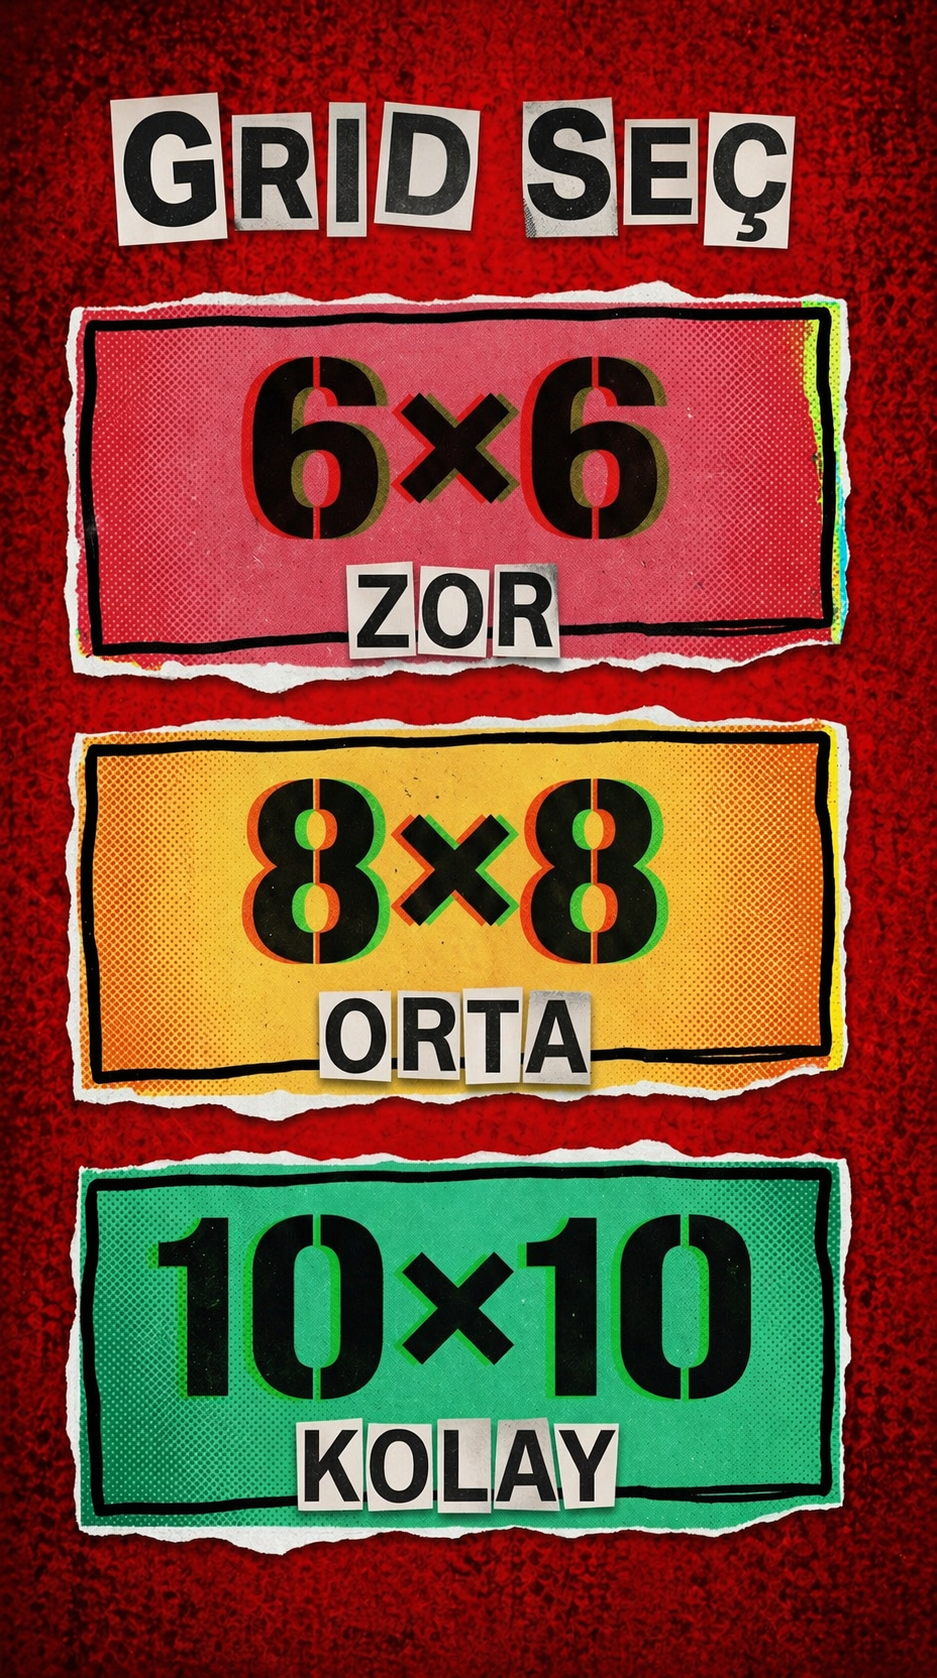
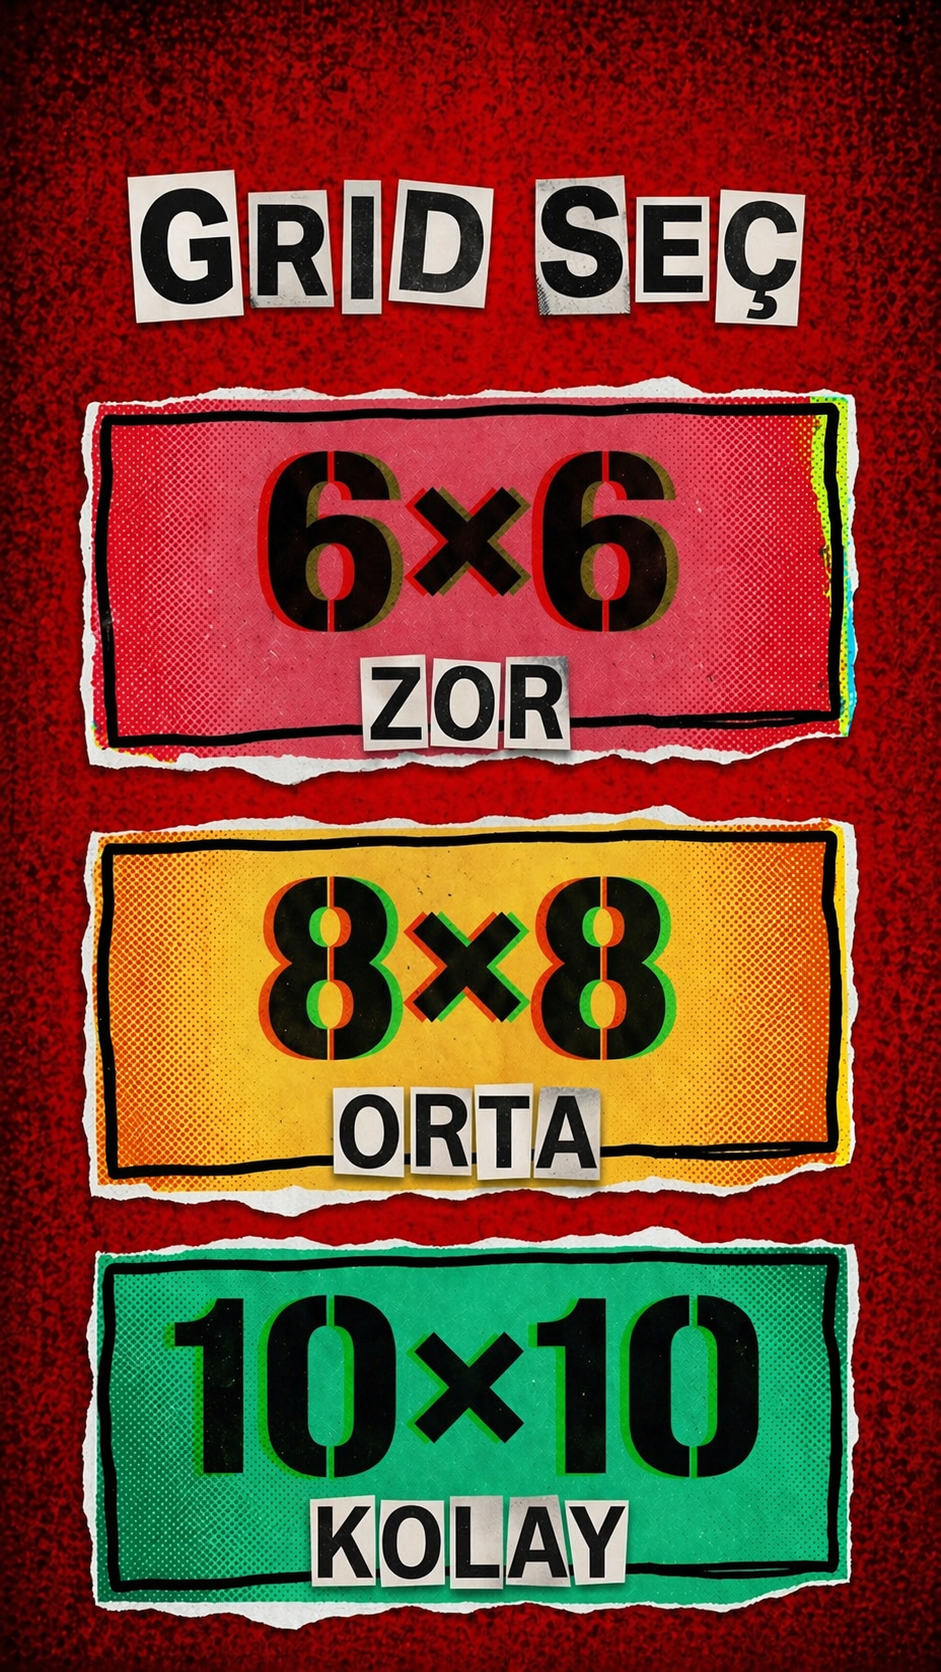
feat(ui): implement MarketScreen and polish navigation flow
- Implement MarketScreen with risograph asset background (market_bg.png)
- Display gold balance over PNG top bar blank area
- Render 6 joker purchase buttons with per-card height and alignment control
- Each button shows price, canAfford state (dim if insufficient gold), and owned quantity badge
- Purchase flow via MarketProvider: deducts gold, adds to JokerInventory, shows snackbar
- Update grid_size_bg.png and market_bg.png with revised assets
- Fix navigation: replace context.go() with context.push() for Home→Score,
  Home→Market, MoveCount→Game to preserve back navigation stack
- Splash→Login and Login→Home remain context.go() (no back wanted)

diff --git a/lib/ui/screens/market_screen.dart b/lib/ui/screens/market_screen.dart
@@ -1,18 +1,162 @@
 import 'package:flutter/material.dart';
+import 'package:flutter_riverpod/flutter_riverpod.dart';
 
-/// Market where players spend gold to buy jokers.
-///
-/// TODO (Phase 6): Read PlayerProfile.goldBalance and JokerInventory from providers.
-/// TODO (Phase 6): Implement purchase flow with gold sufficiency check.
-class MarketScreen extends StatelessWidget {
+import '../../core/constants/app_constants.dart';
+import '../../data/models/joker_inventory.dart';
+import '../../logic/providers/joker_provider.dart';
+import '../../logic/providers/market_provider.dart';
+import '../../logic/providers/player_provider.dart';
+
+class MarketScreen extends ConsumerWidget {
   const MarketScreen({super.key});
+
+  static const _jokers = [
+    (JokerType.fish, 'Balık', AppConstants.fishPrice),
+    (JokerType.wheel, 'Tekerlek', AppConstants.wheelPrice),
+    (JokerType.lollipop, 'Lolipop', AppConstants.lollipopPrice),
+    (JokerType.swap, 'Değiştir', AppConstants.swapPrice),
+    (JokerType.shuffle, 'Karıştır', AppConstants.shufflePrice),
+    (JokerType.party, 'Parti', AppConstants.partyPrice),
+  ];
+
+  void _purchase(BuildContext context, WidgetRef ref, String jokerType) {
+    final result = ref.read(marketProvider.notifier).purchaseJoker(jokerType);
+    final msg = result == PurchaseResult.success
+        ? 'Satın alındı!'
+        : 'Yetersiz altın!';
+    ScaffoldMessenger.of(context).showSnackBar(
+      SnackBar(content: Text(msg), duration: const Duration(seconds: 1)),
+    );
+  }
+
+  @override
+  Widget build(BuildContext context, WidgetRef ref) {
+    final size = MediaQuery.of(context).size;
+    final gold = ref.watch(playerProvider).goldBalance;
+    final jokerState = ref.watch(jokerProvider);
+
+    // Buton pozisyonları: (top%, left%, right%, height, alignmentY)
+    // alignmentY: -1.0=üst, 0.0=orta, 1.0=alt
+    const buttonLayout = [
+      (0.17, 0.08, 0.53, 236.0, 0.8), // Balık
+      (0.17, 0.52, 0.099, 236.0, 0.8), // Tekerlek
+      (0.45, 0.09, 0.53, 236.0, 0.83), // Lolipop
+      (0.45, 0.52, 0.099, 236.0, 0.83), // Değiştir
+      (0.73, 0.09, 0.53, 229.0, 0.8), // Karıştır
+      (0.73, 0.52, 0.099, 229.0, 0.8), // Parti
+    ];
+
+    return Scaffold(
+      body: SizedBox(
+        width: size.width,
+        height: size.height,
+        child: Stack(
+          children: [
+            Image.asset(
+              'assets/images/market_bg.png',
+              fit: BoxFit.fill,
+              width: size.width,
+              height: size.height,
+            ),
+
+            // Altın göstergesi
+            Positioned(
+              top: size.height * 0.090,
+              right: size.width * 0.13,
+              child: Text(
+                '$gold',
+                style: const TextStyle(
+                  fontSize: 18,
+                  fontWeight: FontWeight.w900,
+                  color: Colors.black87,
+                ),
+              ),
+            ),
+
+            // 6 joker satın al butonu
+            for (int i = 0; i < _jokers.length; i++)
+              Positioned(
+                top: size.height * buttonLayout[i].$1,
+                left: size.width * buttonLayout[i].$2,
+                right: size.width * buttonLayout[i].$3,
+                child: _JokerButton(
+                  jokerType: _jokers[i].$1,
+                  price: _jokers[i].$3,
+                  quantity: jokerState.getQuantity(_jokers[i].$1),
+                  canAfford: gold >= _jokers[i].$3,
+                  height: buttonLayout[i].$4,
+                  alignmentY: buttonLayout[i].$5,
+                  onTap: () => _purchase(context, ref, _jokers[i].$1),
+                ),
+              ),
+          ],
+        ),
+      ),
+    );
+  }
+}
+
+class _JokerButton extends StatelessWidget {
+  final String jokerType;
+  final int price;
+  final int quantity;
+  final bool canAfford;
+  final double height;
+  final double alignmentY;
+  final VoidCallback onTap;
+
+  const _JokerButton({
+    required this.jokerType,
+    required this.price,
+    required this.quantity,
+    required this.canAfford,
+    required this.height,
+    required this.alignmentY,
+    required this.onTap,
+  });
 
   @override
   Widget build(BuildContext context) {
-    return Scaffold(
-      appBar: AppBar(title: const Text('Market')),
-      body: const Center(
-        child: Text('Market yakında hazır olacak.'),
+    return GestureDetector(
+      onTap: canAfford ? onTap : null,
+      child: Container(
+        height: height,
+        alignment: Alignment(0, alignmentY),
+        decoration: BoxDecoration(
+          color: Colors.transparent,
+          borderRadius: BorderRadius.circular(6),
+        ),
+        child: Row(
+          mainAxisAlignment: MainAxisAlignment.center,
+          children: [
+            Text(
+              '$price',
+              style: TextStyle(
+                fontSize: 15,
+                fontWeight: FontWeight.w800,
+                color: canAfford ? Colors.black87 : Colors.black38,
+              ),
+            ),
+            if (quantity > 0) ...[
+              const SizedBox(width: 6),
+              Container(
+                padding: const EdgeInsets.symmetric(horizontal: 5, vertical: 2),
+                decoration: BoxDecoration(
+                  color: Colors.black87,
+                  borderRadius: BorderRadius.circular(10),
+                ),
+                child: Text(
+                  'x$quantity',
+                  style: const TextStyle(
+                    fontSize: 11,
+                    color: Colors.white,
+                    fontWeight: FontWeight.w700,
+                  ),
+                ),
+              ),
+            ],
+          ],
+        ),
       ),
     );
   }

diff --git a/lib/ui/screens/home_screen.dart b/lib/ui/screens/home_screen.dart
@@ -89,7 +89,7 @@ class HomeScreen extends ConsumerWidget {
               left: size.width * 0.1,
               right: size.width * 0.1,
               child: GestureDetector(
-                onTap: () => context.go(AppRoutes.gridSize),
+                onTap: () => context.push(AppRoutes.gridSize),
                 child: Container(
                   height: 120,
                   color: Colors.transparent,
@@ -103,7 +103,7 @@ class HomeScreen extends ConsumerWidget {
               left: size.width * 0.1,
               right: size.width * 0.1,
               child: GestureDetector(
-                onTap: () => context.go(AppRoutes.score),
+                onTap: () => context.push(AppRoutes.score),
                 child: Container(
                   height: 122,
                   color: Colors.transparent,
@@ -117,7 +117,7 @@ class HomeScreen extends ConsumerWidget {
               left: size.width * 0.1,
               right: size.width * 0.1,
               child: GestureDetector(
-                onTap: () => context.go(AppRoutes.market),
+                onTap: () => context.push(AppRoutes.market),
                 child: Container(
                   height: 120,
                   color: Colors.transparent,

diff --git a/lib/ui/screens/move_count_screen.dart b/lib/ui/screens/move_count_screen.dart
@@ -11,7 +11,7 @@ class MoveCountScreen extends ConsumerWidget {
 
   void _selectMoveCount(BuildContext context, WidgetRef ref, int moveCount) {
     ref.read(gameProvider.notifier).startNewGame(gridSize, moveCount);
-    context.go(AppRoutes.game);
+    context.push(AppRoutes.game);
   }
 
   @override
